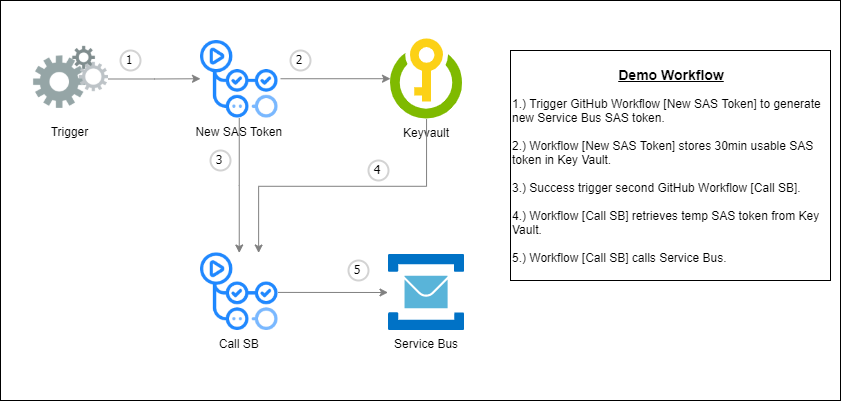
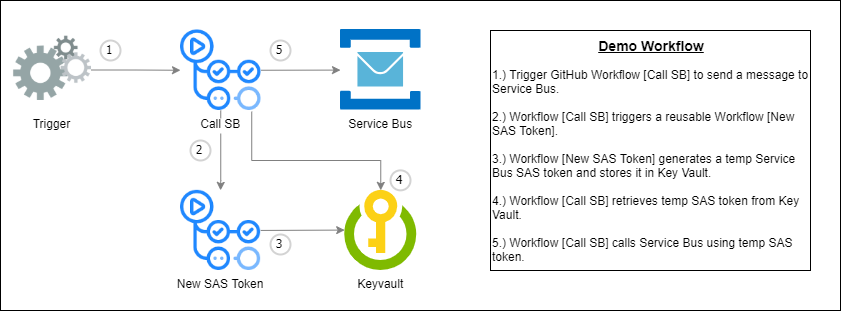
update

diff --git a/posts/Github-Rotate-ServiceBus-SAS/Github-Rotate-ServiceBus-SAS.md b/posts/Github-Rotate-ServiceBus-SAS/Github-Rotate-ServiceBus-SAS.md
@@ -10,13 +10,13 @@ id: 897066
 
 ## Overview
 
-In todays tutorial I will demonstrate how to use powerShell in Github Actions to automate Azure Service Bus SAS tokens to generate short lived usable tokens with a validity period of 30 minutes and securely store the newly generated SAS tokens inside of an Azure Key Vault ready for consumption.
+In todays tutorial I will demonstrate how to use powerShell in Github Actions to automate Azure Service Bus SAS tokens to generate short lived usable tokens with a validity period of 10 minutes and securely store the newly generated SAS tokens inside of an Azure Key Vault ready for consumption.
 
-We will create an [Azure Service Bus](https://docs.microsoft.com/en-gb/azure/service-bus-messaging/service-bus-messaging-overview) and [Key Vault](https://docs.microsoft.com/en-gb/azure/key-vault/general/overview) and a single github workflow to handle our SAS token request as well as a service principal / Azure identity to fully automate everything. When our github workflow is triggered the workflow will generate a temporary usable Service Bus SAS token that will only be valid for 30 minutes and store the SAS token inside of the key vault (The token validity period can be adjusted based on your needs or requirement).
+We will create an [Azure Service Bus](https://docs.microsoft.com/en-gb/azure/service-bus-messaging/service-bus-messaging-overview) and [Key Vault](https://docs.microsoft.com/en-gb/azure/key-vault/general/overview) and a single **reusable** github workflow to handle our SAS token requests as well as a service principal / Azure identity to fully automate everything. For the purpose of this demonstration we will also have a main workflow that is triggered manually. Our main workflow, when triggered, will first call our **reusable** github workflow that will generate our temporary SAS token that will only be valid for 10 minutes and store the SAS token inside of the key vault (The token validity period can be adjusted based on your needs or requirement). Our main workflow will then retrieve the SAS token from the key vault and send the message through to our service bus queue.
 
-This means that whenever we need a temporary SAS token to call our Azure service bus we can process this GitHub workflow to generate a token for us and we can access the token securely from the key vault using a different process or even a different github workflow (which will be demonstrated by a second workflow for the purpose of this demo).
+This means that whenever we need to call our service bus we can now generate a temporary SAS token to call our Azure service bus using a **reusable** GitHub workflow to generate our token for us and we can access the token securely from key vault using a different process or even a different github workflow.
 
-Lets take a look at a sample use case flow diagram of how this will look like:
+Lets take a look at a sample use case flow diagram of how this would look like:
 
 ![image.png](https://raw.githubusercontent.com/Pwd9000-ML/blog-devto/main/posts/Github-Rotate-ServiceBus-SAS/assets/flowdiag.png)
 
@@ -150,6 +150,8 @@ Remember at the beginning of this post I mentioned that we will create a github 
 3. Paste the JSON object output from the Azure CLI command we ran earlier into the secret's value field. Give the secret the name `AZURE_CREDENTIALS`.
 
 ![image.png](https://raw.githubusercontent.com/Pwd9000-ML/blog-devto/main/posts/Github-Rotate-ServiceBus-SAS/assets/githubAzureCredentials1.png)
+
+Because we will have two workflows in this demo 
 
 ### Configure our GitHub workflow
 
